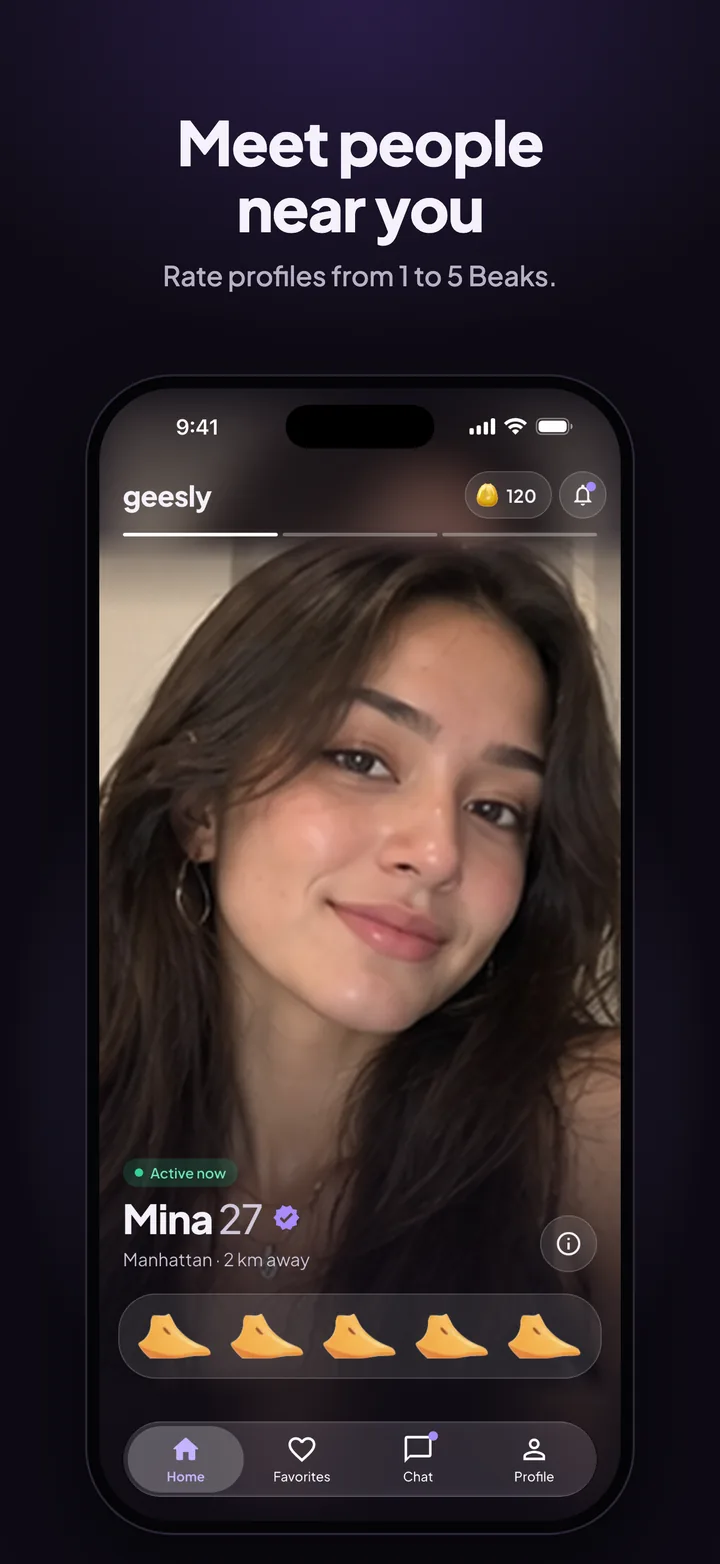
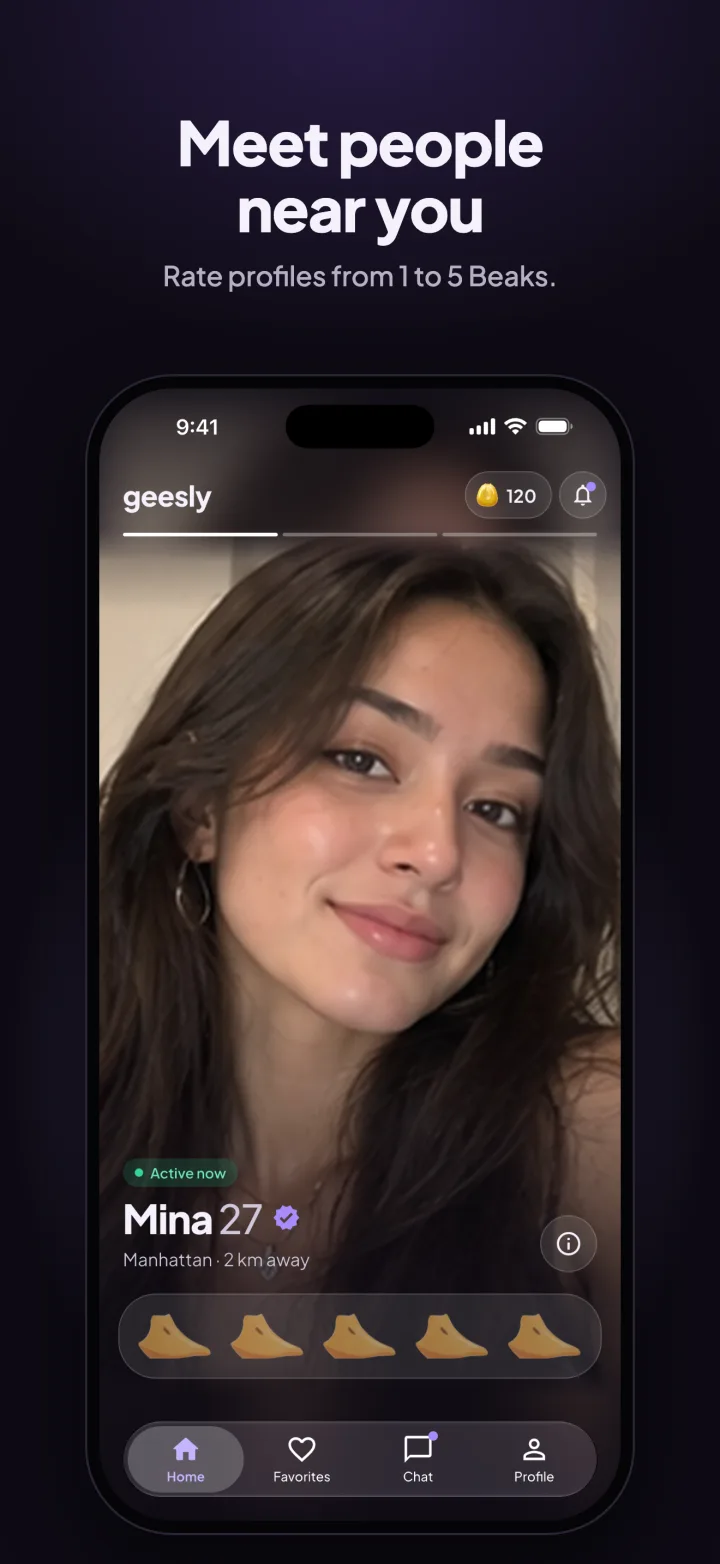
Premium has no hourly rating limit; deck image with the faded beaks
- Terms, About, Privacy and the FAQ (visible + JSON-LD) now say the
  6-per-hour limit is for free accounts and Premium is unlimited.
- app-deck.webp re-rendered from the new store slide (unlit beaks are
  faded orange instead of gray).

diff --git a/privacy.html b/privacy.html
@@ -186,7 +186,7 @@
 
                 <h3>B. Information We Collect Automatically</h3>
                 <ul>
-                    <li><strong>Usage Data:</strong> Activity within the app including likes (4–5 stars), passes (1–3 stars), matches, chat invitations sent/received, profiles viewed, rating progress (earn 1 Corn per 12 ratings), hourly rating limits (6 per hour), features used, and login times</li>
+                    <li><strong>Usage Data:</strong> Activity within the app including likes (4–5 stars), passes (1–3 stars), matches, chat invitations sent/received, profiles viewed, rating progress (earn 1 Corn per 12 ratings), hourly rating limits (6 per hour on free accounts), features used, and login times</li>
                     <li><strong>Device Information:</strong> Device model, operating system, IP address, device identifiers, mobile network information, and app version</li>
                     <li><strong>Location Data:</strong> Precise geolocation (latitude/longitude) and geohash (encoded location) to suggest nearby matches, within 300km (approximately 186 miles), closest first. People farther away are not shown. Users without location data may still be shown, after everyone nearby. Other users are shown your city and approximate distance, not your coordinates; turning off "Share location" in Settings → Privacy hides your city and distance from them. To show a city name, coordinates are looked up with your device's built-in location service (Apple or Google). You can revoke the location permission in device settings, though it will severely limit your visibility to other users</li>
                     <li><strong>Analytics:</strong> App performance data, crash reports, and usage patterns via Firebase Analytics (which includes Google Analytics) and Crashlytics (see Section 12)</li>
@@ -217,7 +217,7 @@
                         </ul>
                     </li>
                     <li><strong>Transactions:</strong> Process premium subscriptions and Corn purchases via app stores, manage virtual currency balances, and handle restore purchases</li>
-                    <li><strong>Gamification:</strong> Track rating progress, award Corns for user engagement (1 Corn per 12 ratings), manage hourly rating limits (6 profiles per hour), and unlock rate limit with 20 Corns</li>
+                    <li><strong>Gamification:</strong> Track rating progress, award Corns for user engagement (1 Corn per 12 ratings), manage hourly rating limits (6 profiles per hour on free accounts), and unlock rate limit with 20 Corns</li>
                     <li><strong>Communications:</strong> Send push notifications and in-app alerts about matches, likes, Skeins, chat invitations, new messages, and when you can rate again. We use email (Gmail) only to send user reports and service statistics to our own team</li>
                     <li><strong>Analytics:</strong> Track usage trends via Firebase Analytics to improve features, fix bugs, and optimize performance</li>
                     <li><strong>Advertising:</strong> Offer optional rewarded video ads through Google AdMob; watching one earns 1 Corn (see Section 12)</li>

diff --git a/index.html b/index.html
@@ -222,7 +222,7 @@
           "name": "What does the premium subscription include?",
           "acceptedAnswer": {
             "@type": "Answer",
-            "text": "Premium subscribers get unlimited chat unlocks, unlimited profile views, unlimited chat invitations, bonus Corns, Skeins (super-likes with a message) every billing period, Rewind to re-rate the previous profile, and priority matching visibility."
+            "text": "Premium subscribers get unlimited ratings (no hourly limit), unlimited chat unlocks, unlimited profile views, unlimited chat invitations, bonus Corns, Skeins (super-likes with a message) every billing period, Rewind to re-rate the previous profile, and priority matching visibility."
           }
         }
       ]
@@ -725,7 +725,7 @@
                     </svg>
                 </button>
                 <div class="faq-answer px-7">
-                    <p class="text-gray-500 pb-5 leading-relaxed">Premium gives you unlimited chat unlocks, unlimited profile views, unlimited chat invitations, bonus Corns, Skeins (super-likes with a message) every billing period, Rewind to re-rate the previous profile, and priority visibility in the matching feed.</p>
+                    <p class="text-gray-500 pb-5 leading-relaxed">Premium gives you unlimited ratings (no hourly limit), unlimited chat unlocks, unlimited profile views, unlimited chat invitations, bonus Corns, Skeins (super-likes with a message) every billing period, Rewind to re-rate the previous profile, and priority visibility in the matching feed.</p>
                 </div>
             </div>
         </div>

diff --git a/terms.html b/terms.html
@@ -380,7 +380,7 @@
 
                 <h3>Limitations:</h3>
                 <ul>
-                    <li><strong>Hourly Limit:</strong> 6 profile ratings per hour for everyone, including Premium members</li>
+                    <li><strong>Hourly Limit:</strong> 6 profile ratings per hour on a free account; Premium members have no hourly limit</li>
                     <li><strong>Unlock Limit:</strong> Spend 20 Corns to rate 6 more profiles immediately</li>
                     <li><strong>Monthly Reset:</strong> On the 1st of each month, your likes, the list of people who liked you, your seen users, and matches without any messages are reset. Matches with an active chat, pending chat invitations, pending Skeins, blocked users, and profiles you passed on (1–2 stars) stay as they are. Corns and Skeins are not affected</li>
                     <li><strong>No Guarantees:</strong> Geesly does not guarantee matches, connections, or relationship outcomes</li>
@@ -433,6 +433,7 @@
                 <h3>A. Premium Subscriptions</h3>
                 <p>Geesly offers premium subscriptions with benefits including:</p>
                 <ul>
+                    <li>Unlimited ratings (no hourly limit)</li>
                     <li>Unlimited chat unlocks</li>
                     <li>Unlimited profile views</li>
                                         <li>Send unlimited chat invitations</li>

diff --git a/about.html b/about.html
@@ -329,7 +329,7 @@
                     </li>
                     <li class="flex items-start gap-3 text-gray-300">
                         <span class="text-pink-400 mt-1">&#9679;</span>
-                        <span><strong>Bypass hourly limit (20 Corns):</strong> Normally you can rate 6 profiles per hour. Spend Corns to unlock 6 more ratings immediately.</span>
+                        <span><strong>Bypass hourly limit (20 Corns):</strong> On a free account you can rate 6 profiles per hour (Premium has no limit). Spend Corns to unlock 6 more ratings immediately.</span>
                     </li>
                     <li class="flex items-start gap-3 text-gray-300">
                         <span class="text-pink-400 mt-1">&#9679;</span>
